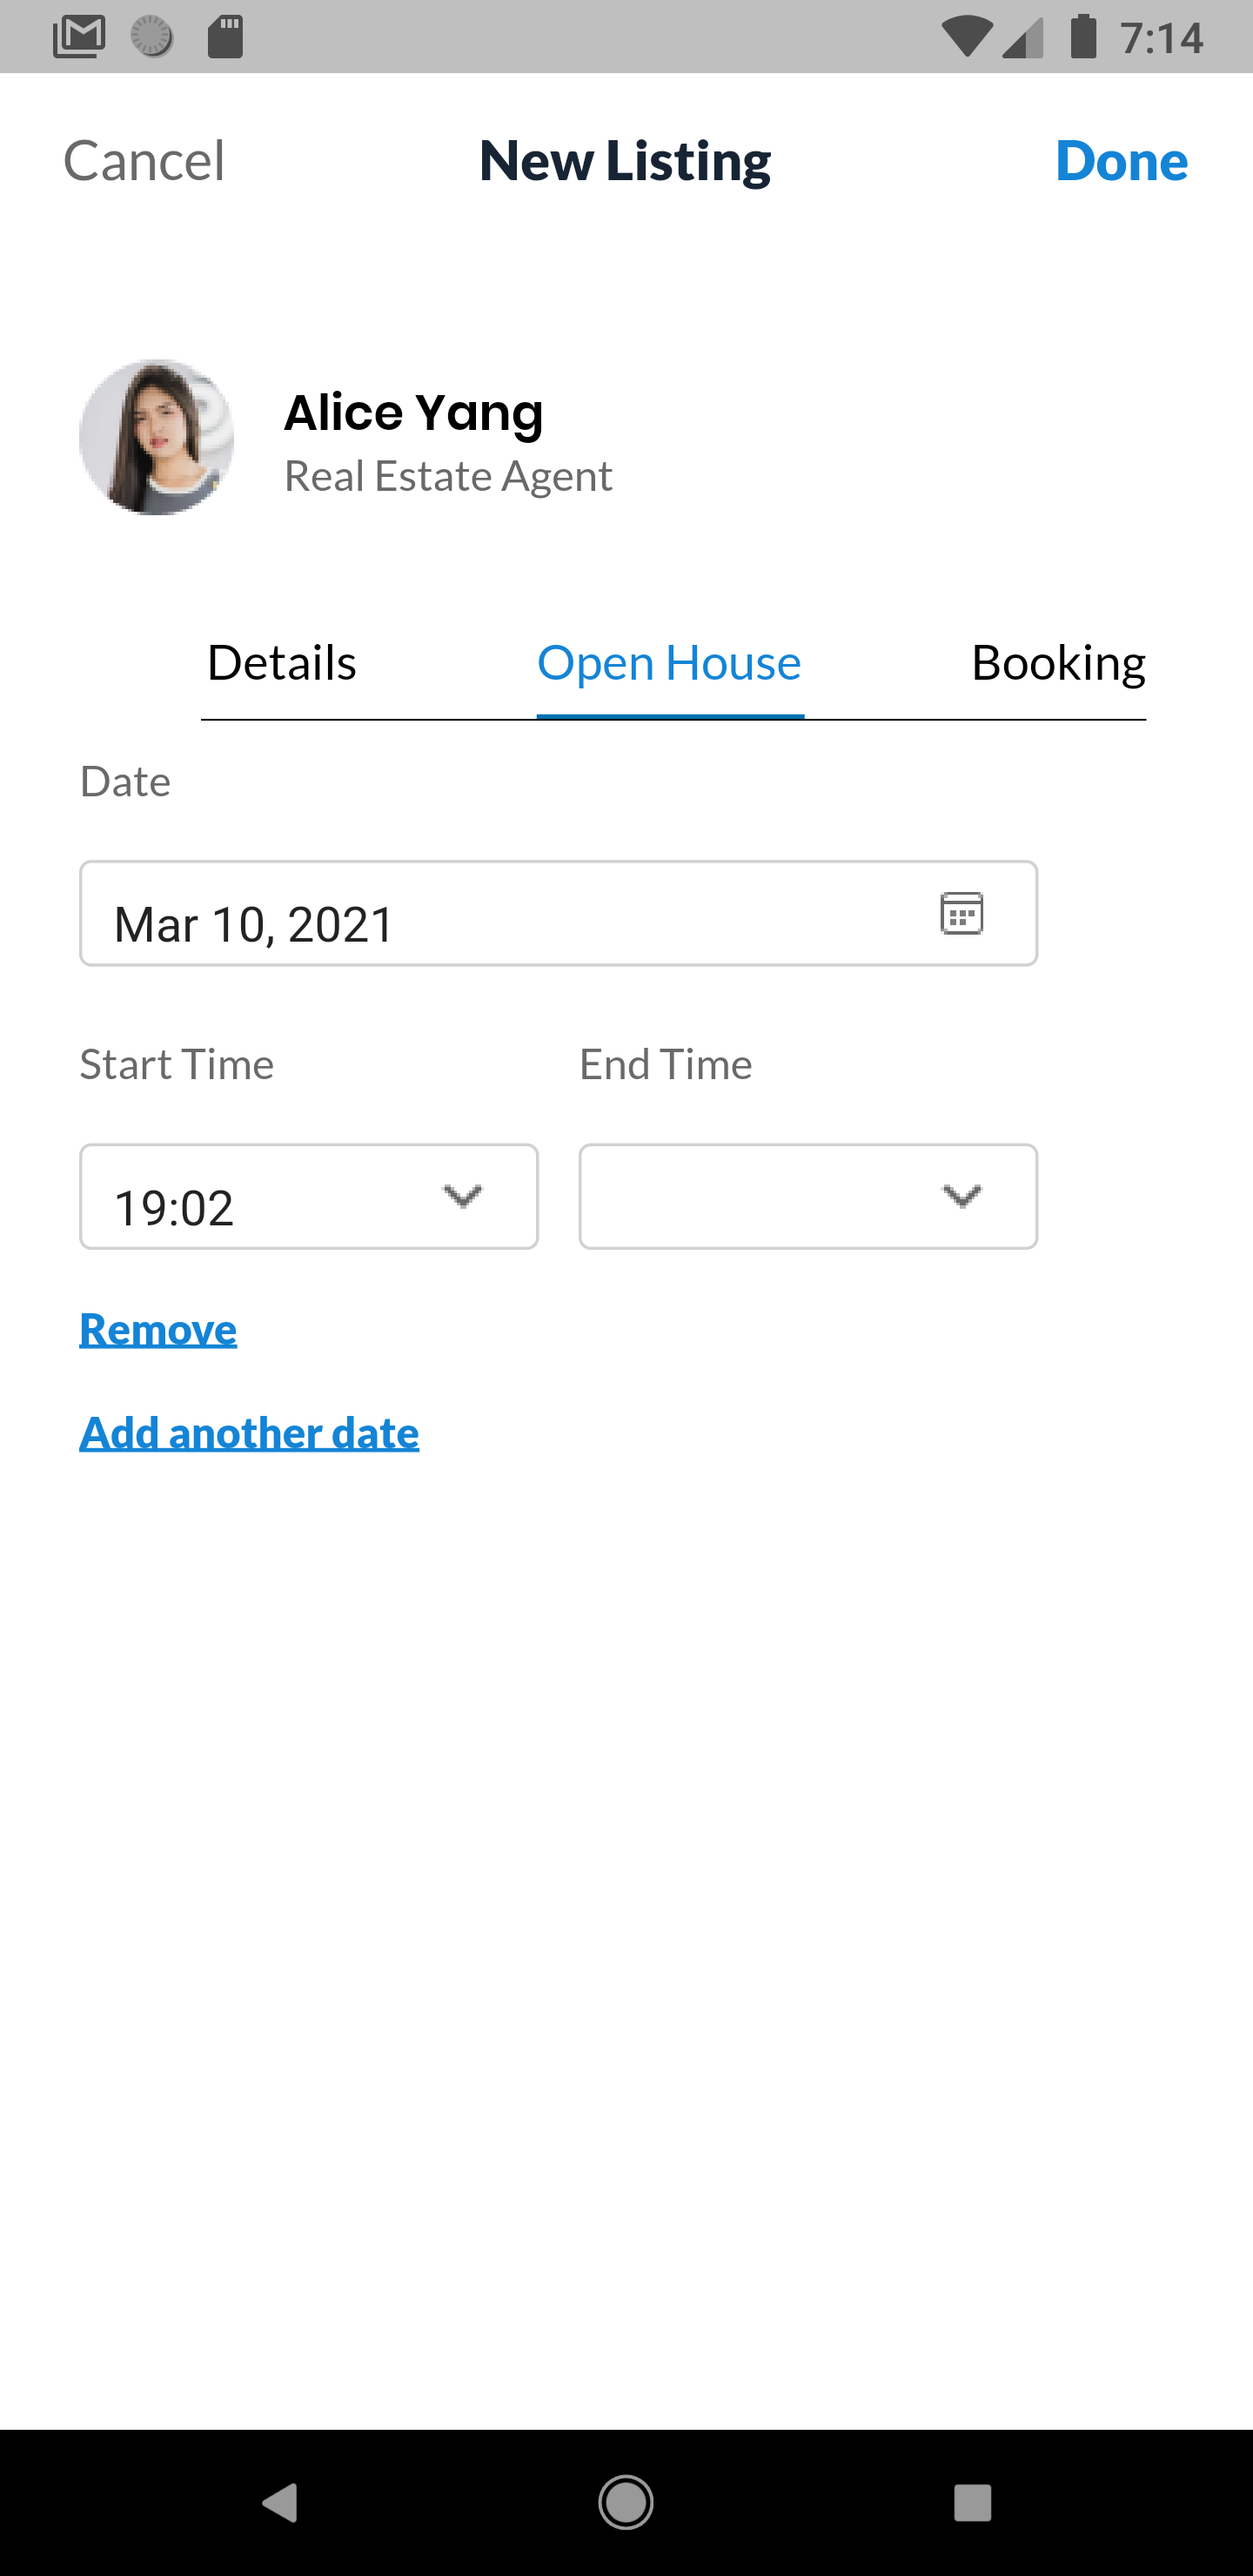
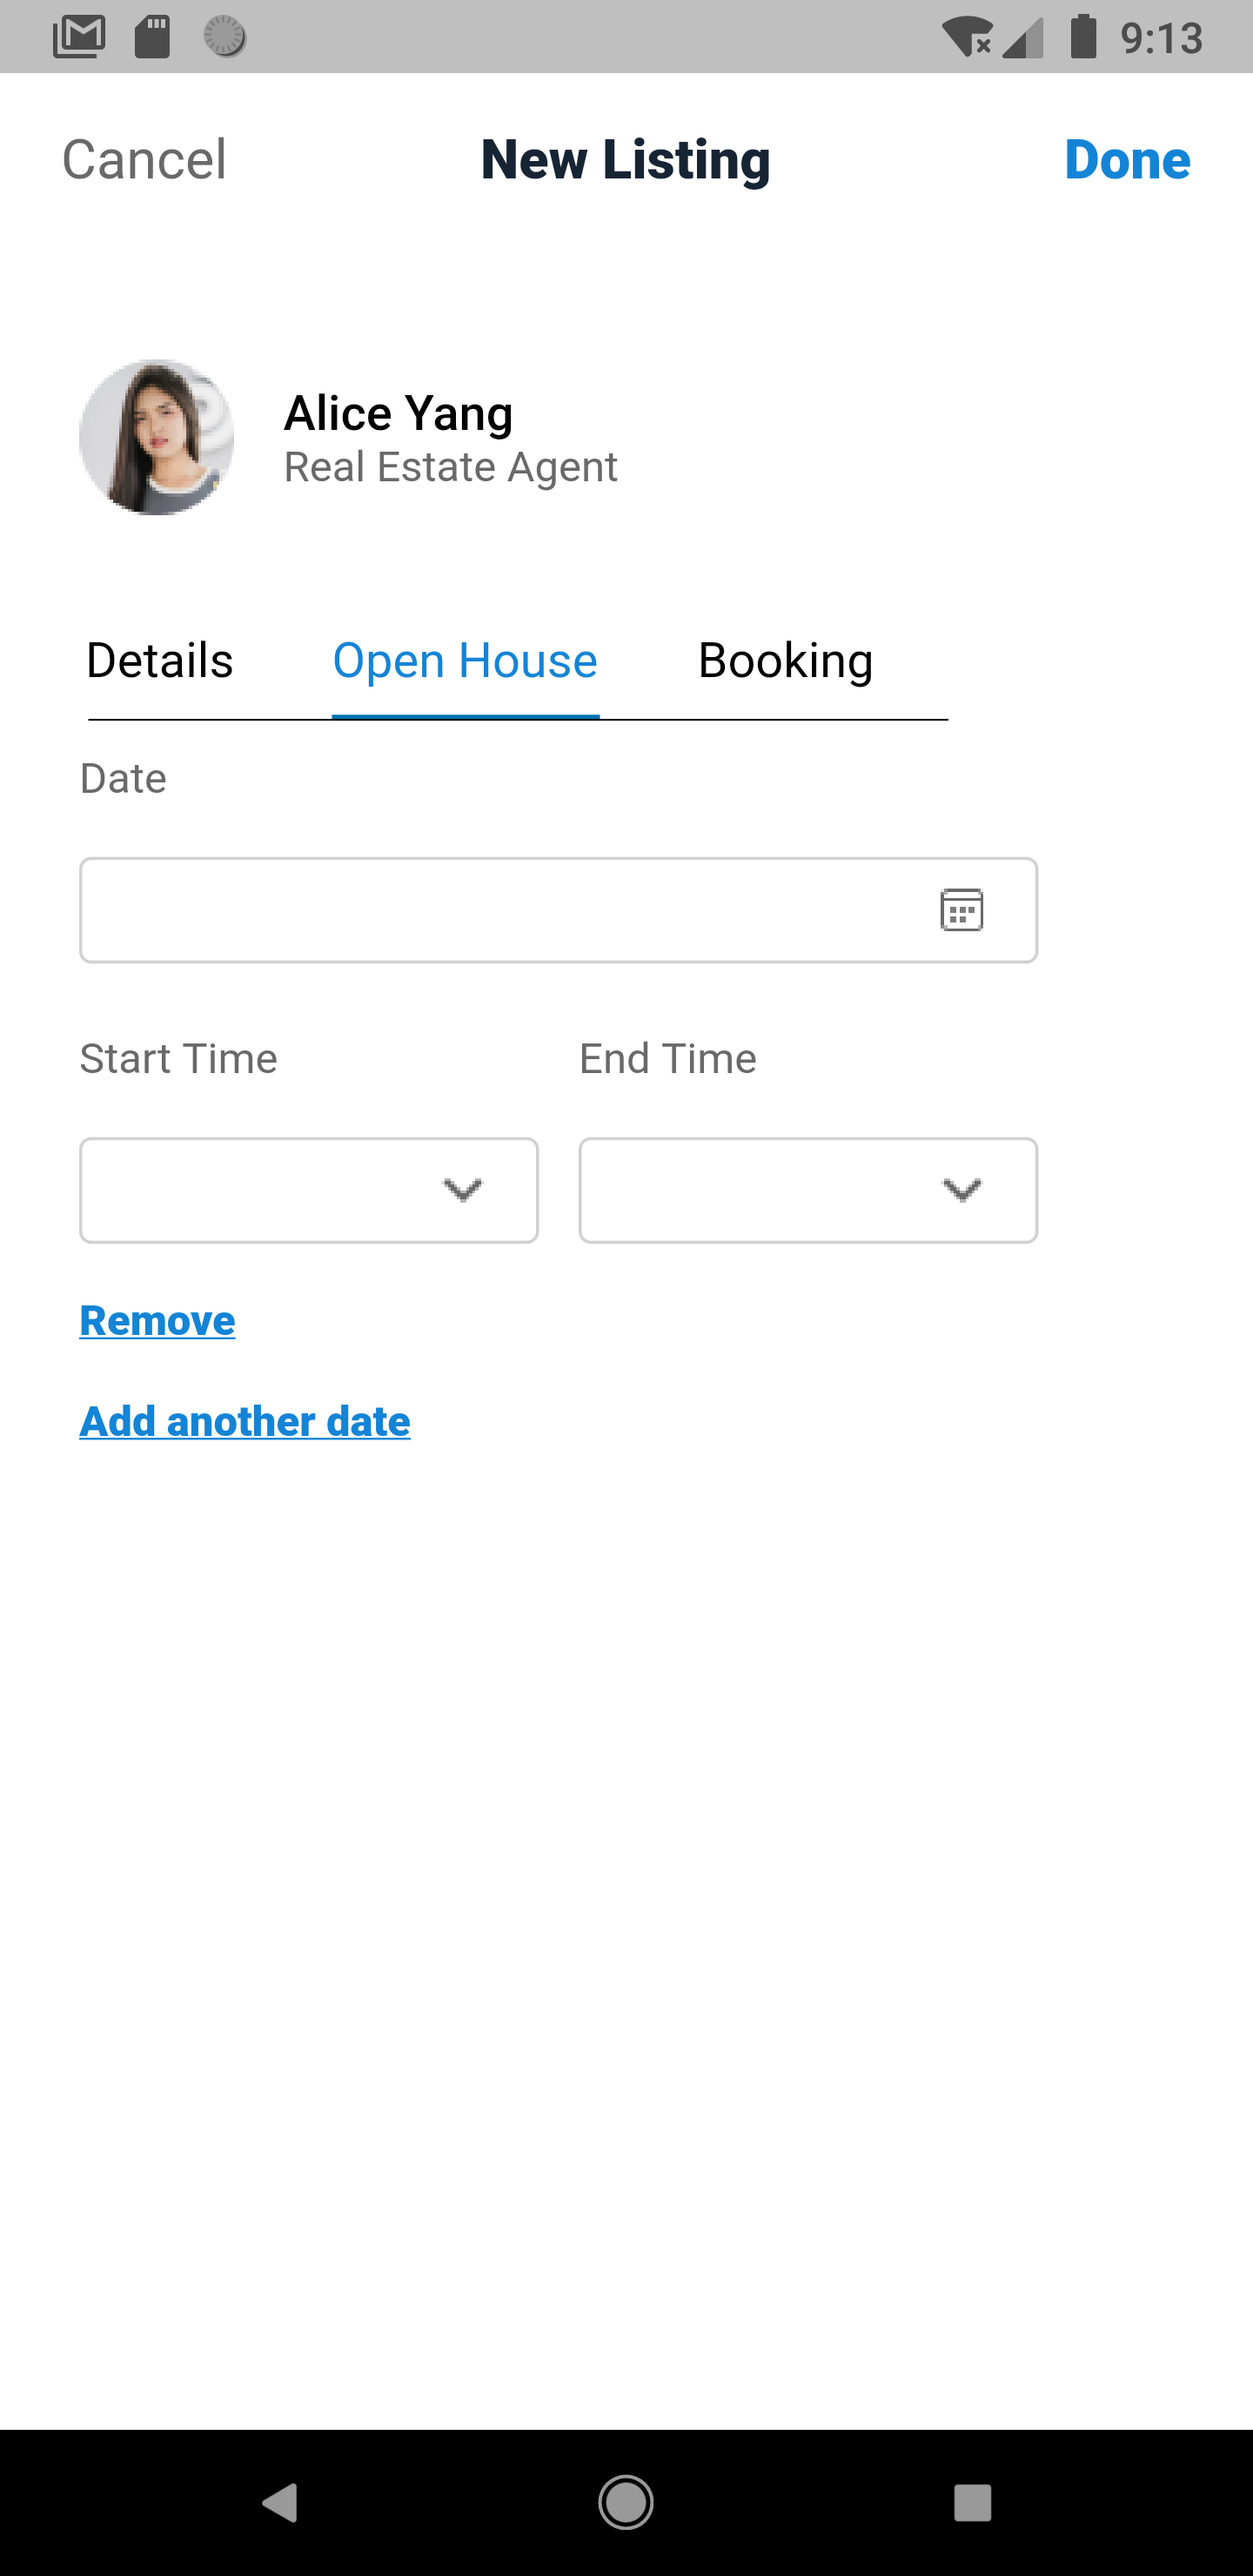
updated

diff --git a/bookings/lib/app/modules/agent_new_listing/views/agent_new_listing_view.dart b/bookings/lib/app/modules/agent_new_listing/views/agent_new_listing_view.dart
@@ -85,9 +85,10 @@ class AgentNewListingView extends GetView<AgentNewListingController> {
             height: 38,
           ),
           Padding(
-            padding: const EdgeInsets.only(left: 29),
+            padding: const EdgeInsets.only(left: 12),
             child: TabBar(
               tabs: controller.tabs,
+              isScrollable: true,
               labelStyle: GoogleFonts.lato(
                 fontWeight: FontWeight.bold,
 
@@ -106,7 +107,7 @@ class AgentNewListingView extends GetView<AgentNewListingController> {
             ),
           ),
           Padding(
-            padding: EdgeInsets.only(left: 66, right: 35),
+            padding: EdgeInsets.only(left: 29, right: 100),
             child: Container(
               // Negative padding
 
@@ -124,7 +125,7 @@ class AgentNewListingView extends GetView<AgentNewListingController> {
           ),
           Expanded(
             child: TabBarView(controller: controller.controller, children: [
-              Text("Jn"),
+              Center(child: Text("Jn")),
               Padding(
                 padding: const EdgeInsets.only(left: 26),
                 child: Column(
@@ -297,7 +298,7 @@ class AgentNewListingView extends GetView<AgentNewListingController> {
                   ],
                 ),
               ),
-              Text("Jn"),
+              Center(child: Text("Jn")),
             ]),
           )
         ],
